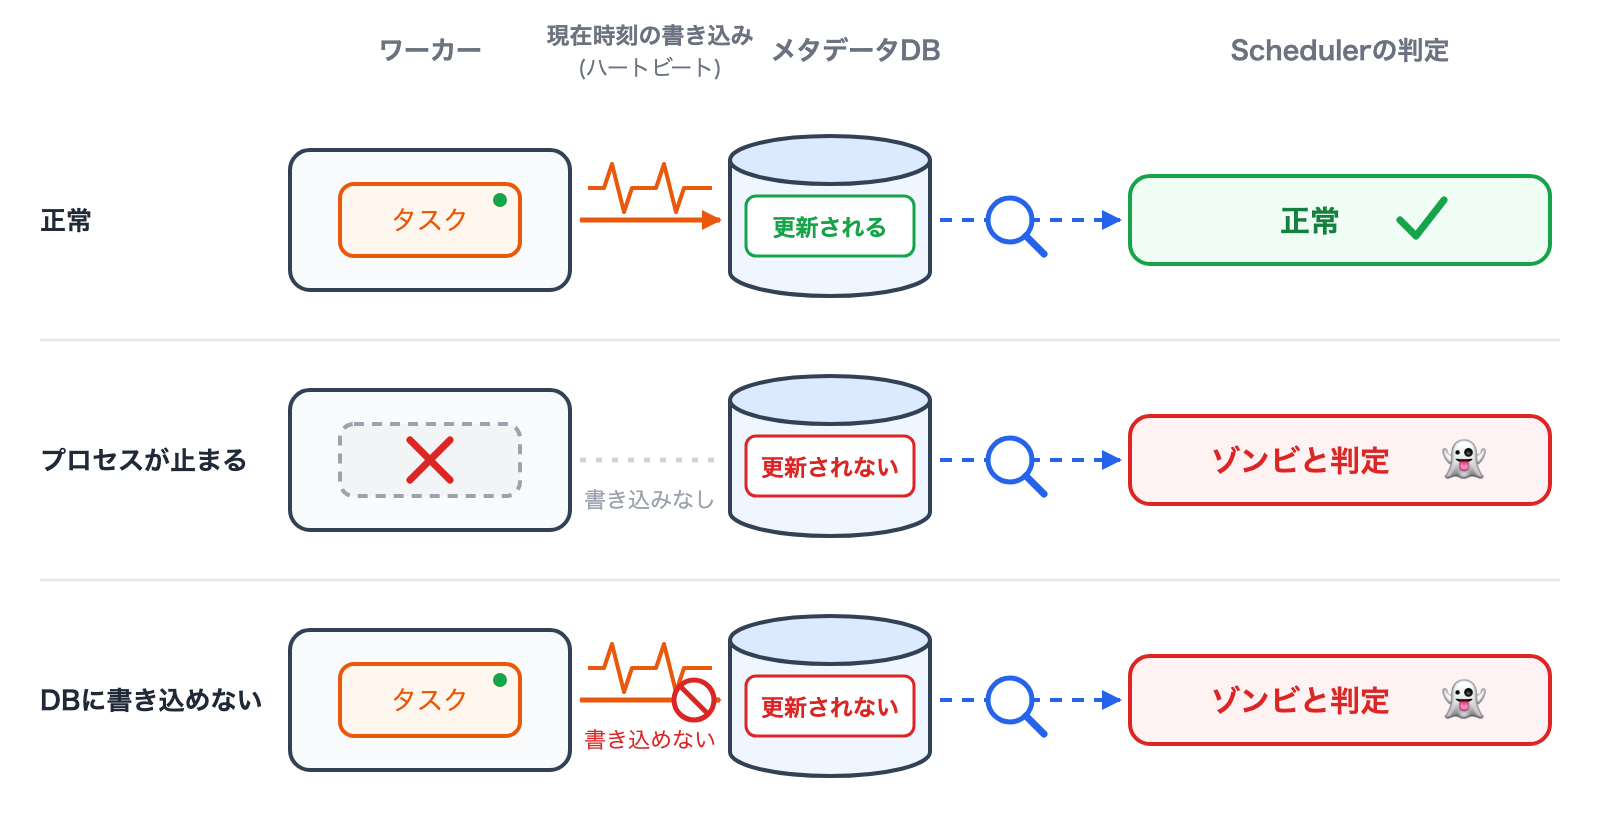
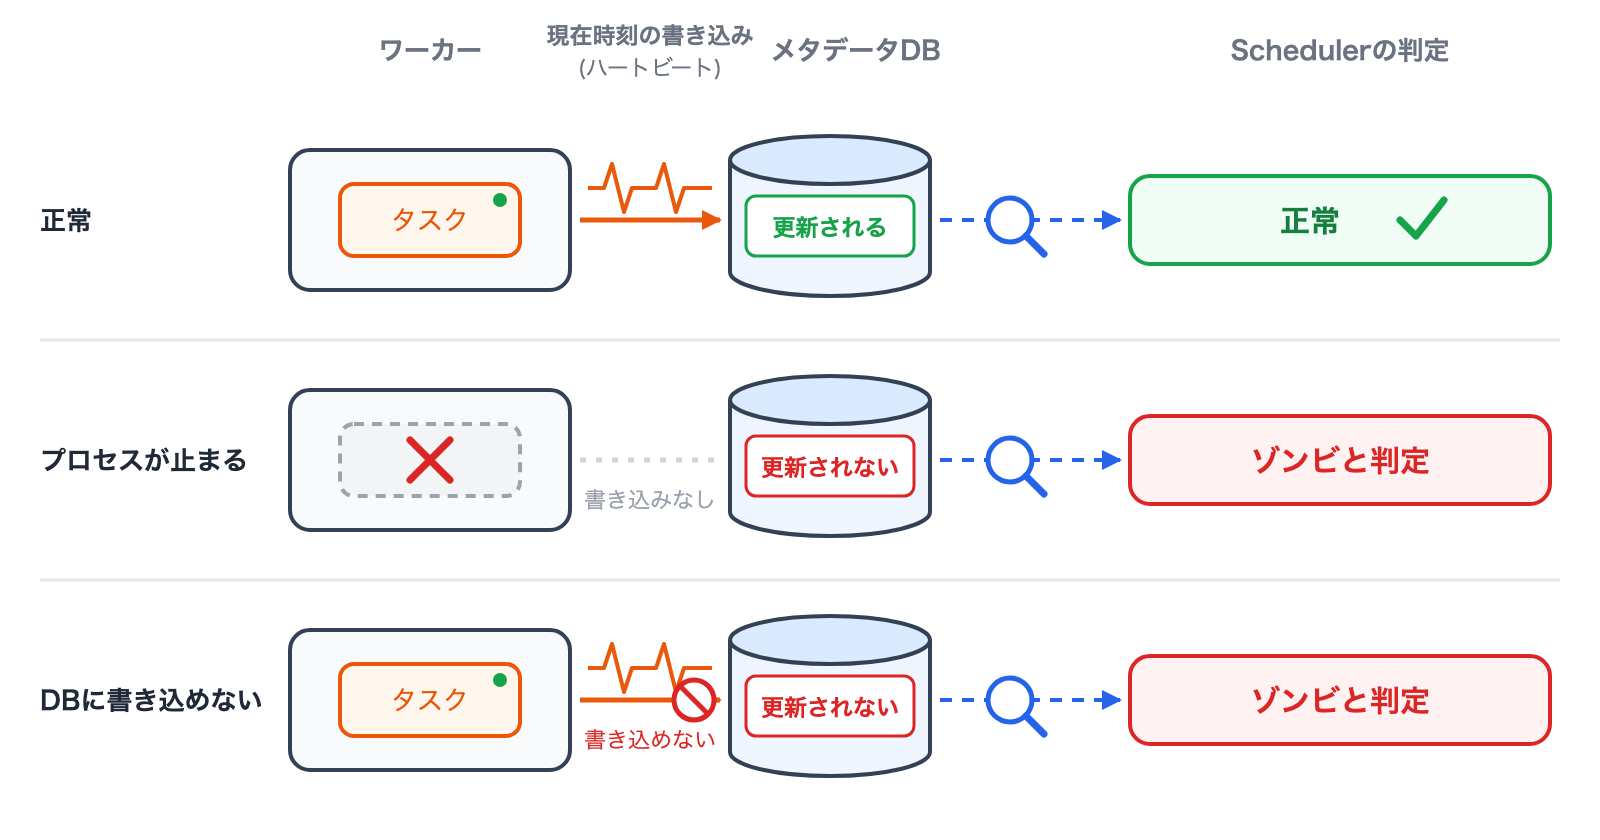
update: 表現の見直し（再試行・Run Id・ワーカーのメモリ不足を明確化）、図の絵文字を削除

Changed region(s): [[0.75, 0.8048, 0.9375, 0.8667], [0.75, 0.5262, 0.9375, 0.5881]]

diff --git a/articles/airflow-zombie-job.md b/articles/airflow-zombie-job.md
@@ -8,11 +8,11 @@ published: false
 
 Airflowを運用していると、Schedulerのログに `Detected zombie job` と記録され、動いていたはずのタスクがゾンビタスクとして失敗することがあります。このログは「Airflowがタスクの動作を確認できなくなった」という結果を伝えるだけで、原因までは書かれていません。原因は、ワーカーのメトリクスやほかのログと突き合わせて絞り込む必要があります。
 
-この記事では、ゾンビタスクが検出される仕組みを説明したあと、発生の確認、原因の切り分け、対処の手順をまとめます。コマンド例はGoogle CloudのマネージドAirflow向けですが、考え方は自前のAirflowでも同じです。対象はAirflow 2系で、Airflow 3での変更点は最後にまとめます。
+この記事では、ゾンビタスクが検出される仕組みを説明したあと、発生の確認、原因の切り分け、対処の手順をまとめます。コマンド例はGoogle CloudのマネージドAirflow向けですが、考え方は自分で構築したAirflowでも同じです。対象はAirflow 2系で、Airflow 3での変更点は最後にまとめます。
 
 ## ゾンビタスクが検出される仕組み
 
-先に、Airflowがどんな条件でタスクをゾンビと判定するのかを見ておきます。原因を探すときは、この条件に当てはまる状況を順に確かめていくことになります。
+まず、Airflowがどんな条件でタスクをゾンビと判定するのかを説明します。原因を探すときは、この条件に当てはまる状況を順に確かめていくことになります。
 
 登場するのは次の3つです。
 
@@ -32,7 +32,7 @@ Schedulerはワーカーを直接監視しているわけではなく、DBに残
 - タスクを実行しているジョブが `running` ではなくなっている
 - 最終更新時刻から一定時間（既定で300秒）が過ぎている
 
-ゾンビ判定されたタスクは失敗になります。再試行の設定があれば再試行されます。
+ゾンビ判定されたタスクは失敗になります。DAGにタスクの再試行（`retries`）を設定していれば、そのタスクがもう一度実行されます。
 
 ![ハートビートが止まってからゾンビと判定されるまで](/images/airflow-zombie-job/fig2-timeline.png)
 *上:ハートビートが止まっても、DBの状態は running のまま最終更新時刻だけが古くなる。Schedulerは「今」との差が300秒を超えたのを見てゾンビと判定し、failed にする。下:同じ流れを時間軸で見たもの*
@@ -70,13 +70,13 @@ AND timestamp<="2026-08-01T12:00:00Z"' \
 Detected zombie job: {'full_filepath': '/home/airflow/gcs/dags/sample_dag.py', ..., 'msg': "{'DAG Id': 'sample_dag', 'Task Id': 'load', 'Run Id': 'scheduled__2026-08-01T00:00:00+00:00', 'Hostname': 'airflow-worker-xxxxx'}", ...} (See https://airflow.apache.org/docs/apache-airflow/stable/core-concepts/tasks.html#zombie-undead-tasks)
 ```
 
-調査に使うのは次の4つです。件数が多いときは、ログの時刻とこの4つを表計算ソフトなどに書き出しておくと、あとの手順で見比べやすくなります。
+調査に使うのは次の4つです。
 
 | 項目 | 使いみち |
 |---|---|
 | ログの時刻 | メトリクスやほかのログと同じ時間帯で突き合わせる |
 | DAG Id・Task Id | 影響した処理を特定する |
-| Run Id | 同じDAGの別の実行と区別する |
+| Run Id | DAGの実行1回ごとに付く識別子。同じDAGの別の実行と区別する |
 | Hostname | 実行していたワーカー。複数のタスクが同じワーカーに集中していないかを見る |
 
 ログが1件も見つからないときは、「発生していない」か「ログの保持期間を過ぎている」可能性があります。保持日数は次のコマンドで確認できます。
@@ -99,10 +99,10 @@ gcloud logging buckets describe _Default \
 
 | 経路 | 原因 | 主な手がかり |
 |---|---|---|
-| プロセスが止まる | メモリ不足による強制終了 | ワーカーログの `Negsignal.SIGKILL`、メモリ使用率 |
+| プロセスが止まる | ワーカーのメモリ不足による強制終了 | ワーカーログの `Negsignal.SIGKILL`、ワーカーのメモリ使用率 |
 | プロセスが止まる | ワーカーの再起動 | ワーカーの再起動回数 |
 | プロセスが止まる | ワーカーの退避・縮小・環境更新・メンテナンス | Podの退避回数、ワーカー数の推移、監査ログ、メンテナンスのメトリクス |
-| DBに書き込めない | ワーカーの高負荷 | CPU・メモリ使用率、同時実行数 |
+| DBに書き込めない | ワーカーの高負荷 | ワーカーのCPU・メモリ使用率、同時実行数 |
 | DBに書き込めない | メタデータDBの高負荷・停止 | DBの正常性、CPU・メモリ使用率 |
 | DBに書き込めない | ネットワーク障害 | 接続エラー、ワーカーログの `Heartbeat time limit exceeded` |
 | DBに書き込めない（一時的） | 一時的な遅れに対して判定までの時間が短い | 回復しているのに繰り返しゾンビになる。ワーカーログに `Heartbeat time limit exceeded` が繰り返し出る |
@@ -152,9 +152,9 @@ Google Cloudの[公式ドキュメント](https://docs.cloud.google.com/composer
 | ワーカーごとのストレージ使用量・上限 | `composer.googleapis.com/workload/disk/bytes_used`、`composer.googleapis.com/workload/disk/quota`<br>（Metrics Explorer） |
 | 強制終了・停止の記録 | `Negsignal.SIGKILL`、`Received SIGTERM`<br>（ワーカーログ、下のコマンド） |
 
-メトリクスは、`Detected zombie job` のログの Hostname にあたるワーカーを `workload_name` で指定して見ます。退避回数だけは環境全体の値なので、退避があった時刻をワーカーログと照合してワーカーを特定します。そのワーカーのストレージ使用量が上限近くなら、退避の原因はストレージ不足と考えられます。
+メトリクスは、`Detected zombie job` のログの Hostname にあたるワーカーを `workload_name` で指定して見ます。退避回数だけは環境全体の値なので、退避の時刻をワーカーログと照合してワーカーを特定します。そのワーカーのストレージ使用量が上限近くなら、ストレージ不足による退避と考えられます。
 
-ワーカーログは次のコマンドで検索します（`Negsignal.SIGKILL` と `Received SIGTERM` の意味は[公式のトラブルシューティング](https://docs.cloud.google.com/composer/docs/composer-3/troubleshooting-dags#sigterm)を参照）。手順6で使う `Heartbeat time limit exceeded` も一緒に探します。出力の `labels` で、どのDAG・タスクのログかが分かります。
+ワーカーログは次のコマンドで検索します（`Negsignal.SIGKILL` と `Received SIGTERM` の意味は[公式のトラブルシューティング](https://docs.cloud.google.com/composer/docs/composer-3/troubleshooting-dags#sigterm)を参照）。`Heartbeat time limit exceeded` は、ワーカーがDBに書き込めないまま判定時間を超えたときのログです。[手順6](#6.-通信エラーと設定値)で使うので、ここで一緒に探しておきます。出力の `labels` で、どのDAG・タスクのログかが分かります。
 
 ```shell
 gcloud logging read 'resource.type="cloud_composer_environment"
@@ -213,8 +213,10 @@ composer_googleapis_com:workload_memory_quota{
 | ポイント | 理由 |
 |---|---|
 | ゾンビになったタスクを実行していたワーカー（ログの Hostname）だけを指定する | 全ワーカーの合計だと、1台の逼迫が薄まって見えない |
-| 検出前後の最大値を見る | メトリクスは60秒間隔なので、短時間の急上昇を取りこぼす |
-| 80%超が続き、同じ時間帯に再起動や `Negsignal.SIGKILL` があれば、メモリ不足を有力な候補とする | 使用率だけでは、強制終了されたかどうかは分からない |
+| 平均ではなく、検出前後の最大値を見る | メトリクスは60秒間隔なので、短時間の急上昇を取りこぼす |
+| 80%超が続き、同じ時間帯に再起動や `Negsignal.SIGKILL` があれば、ワーカーのメモリ不足を有力な候補とする※ | 使用率が高いこととプロセスが強制終了されたことは別なので、両方そろって初めて候補になる |
+
+※ Google Cloudは、ワーカーのCPU・メモリ使用率が80%を超えないように調整することを勧めています。検出前後にこの水準を超え続けていたなら、リソース不足を候補に挙げます。
 
 タスクごとのCPU・メモリ使用率は最初から割合（%）なので、そのまま見られます。同じ時間帯に動いていたタスクのうち、どれが多く使っていたかを比べるのに使います。
 
@@ -223,7 +225,7 @@ composer_googleapis_com:workload_memory_quota{
 | 状況 | 対処 |
 |---|---|
 | ワーカー全体のメモリ・CPUが上限近く（80%超）まで使われていた | ワーカーのメモリ・CPUを増やす。<br>同時に実行するタスク数の上限 `worker_concurrency` を下げる※ |
-| 特定のタスクだけ使用量が大きい | タスクの処理を見直して使用量を減らす。<br>KubernetesPodOperator でワーカーの外の専用Podで実行する（CPU・メモリを個別に指定できる） |
+| 特定のタスクだけ使用量が大きい | まずタスクの処理を見直して使用量を減らす。<br>それでも収まらない重い処理だけ、KubernetesPodOperator でワーカーの外の専用Podに切り出す（CPU・メモリを個別に指定できるが、DAGの書き換えとコンテナイメージの用意が必要） |
 
 ※ `worker_concurrency` は、1台のワーカーが同時に実行するタスク数の上限です。設定で決めた上限にすぎず、その数のタスクを同時に動かしてもワーカーのメモリ・CPUが足りるとは限りません。下げると同時に動くタスクが減り、ワーカー全体のメモリ・CPU使用量のピークが下がります。いくつまで下げるかは、そのワーカーで同時に動いていたタスク数と1タスクあたりの使用量から決めます。
 
@@ -237,7 +239,7 @@ composer_googleapis_com:workload_memory_quota{
 | CPU使用率 | `composer.googleapis.com/environment/database/cpu/utilization` |
 | メモリ使用率 | `composer.googleapis.com/environment/database/memory/utilization` |
 
-`database_health` は、監視用のPodが1分ごとにDBへ接続できたかを表す値なので、正常でも短い遅延や一部の接続失敗までは否定できません。CPU・メモリ使用率と接続エラーも合わせて見て、どれにも異常がなければDBが原因である可能性は下がります。
+`database_health` は、監視用のPodが1分ごとにDBへ接続できたかを表す値なので、正常でも短い遅延や一部の接続失敗までは否定できません。また、CPU・メモリ使用率と接続エラーも合わせて見て、どれにも異常がなければDBが原因である可能性は下がります。
 
 状況に応じた対処です。
 
